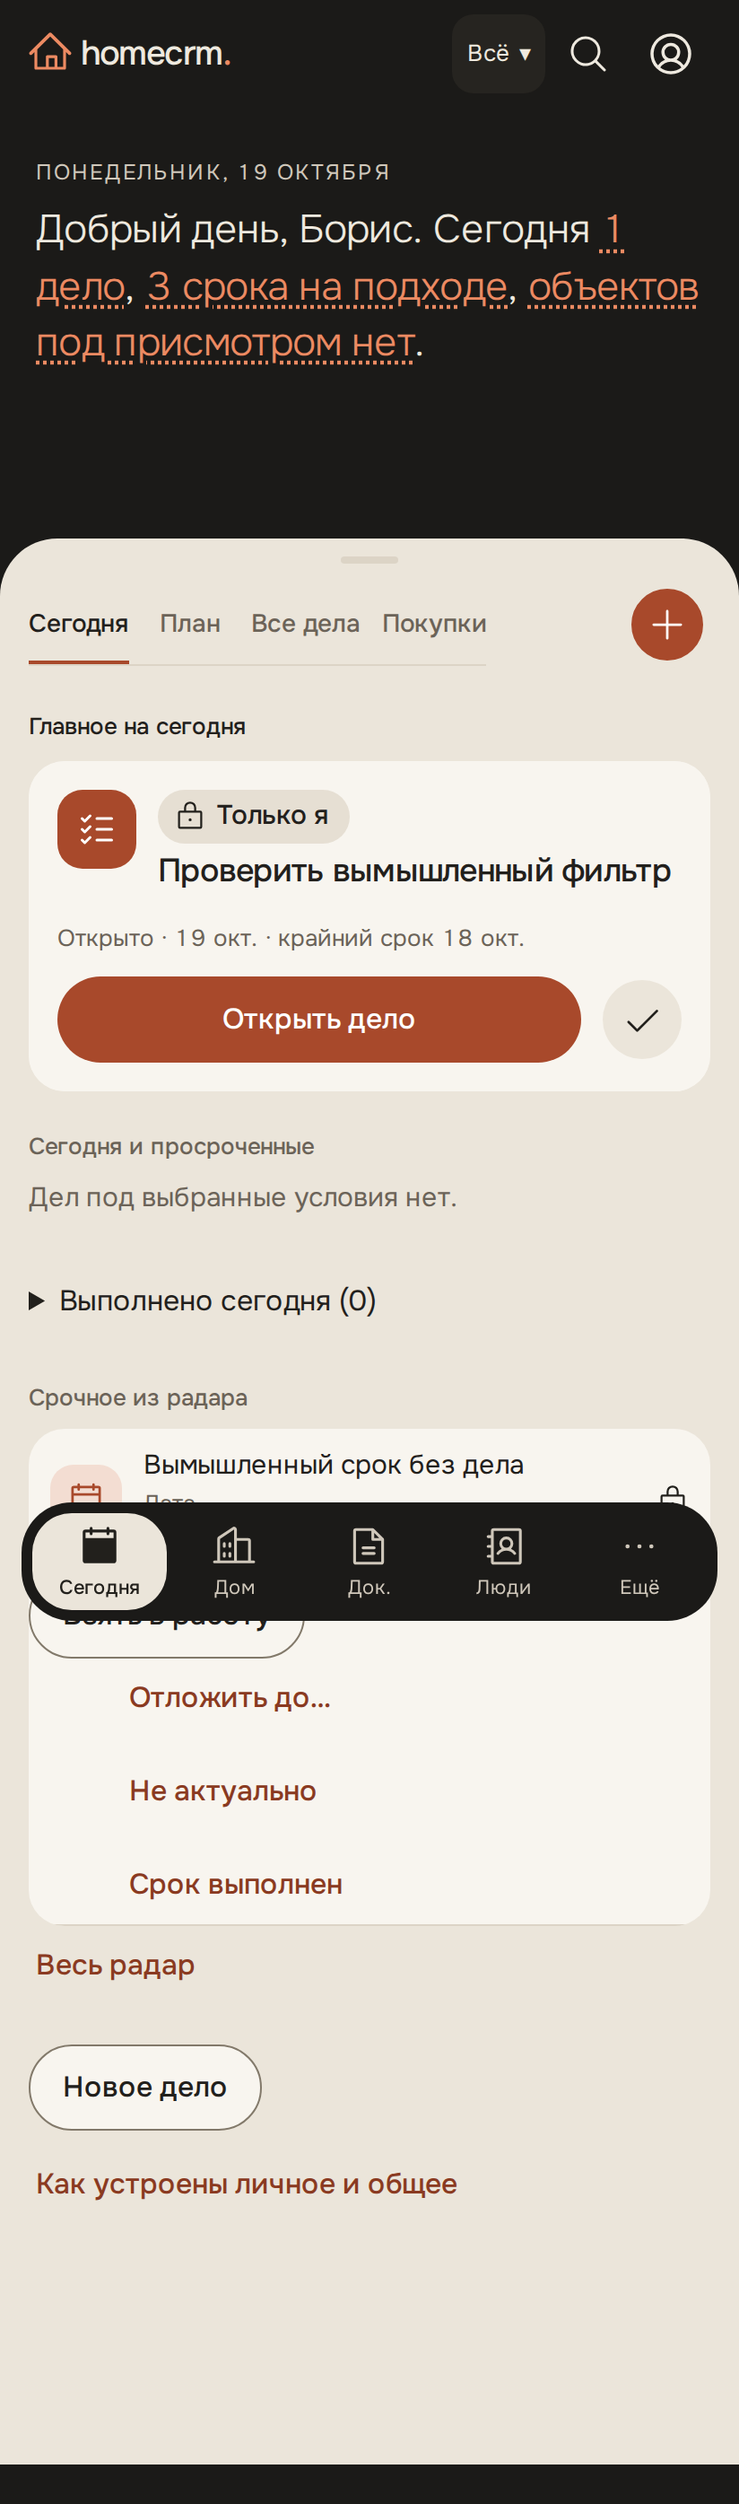
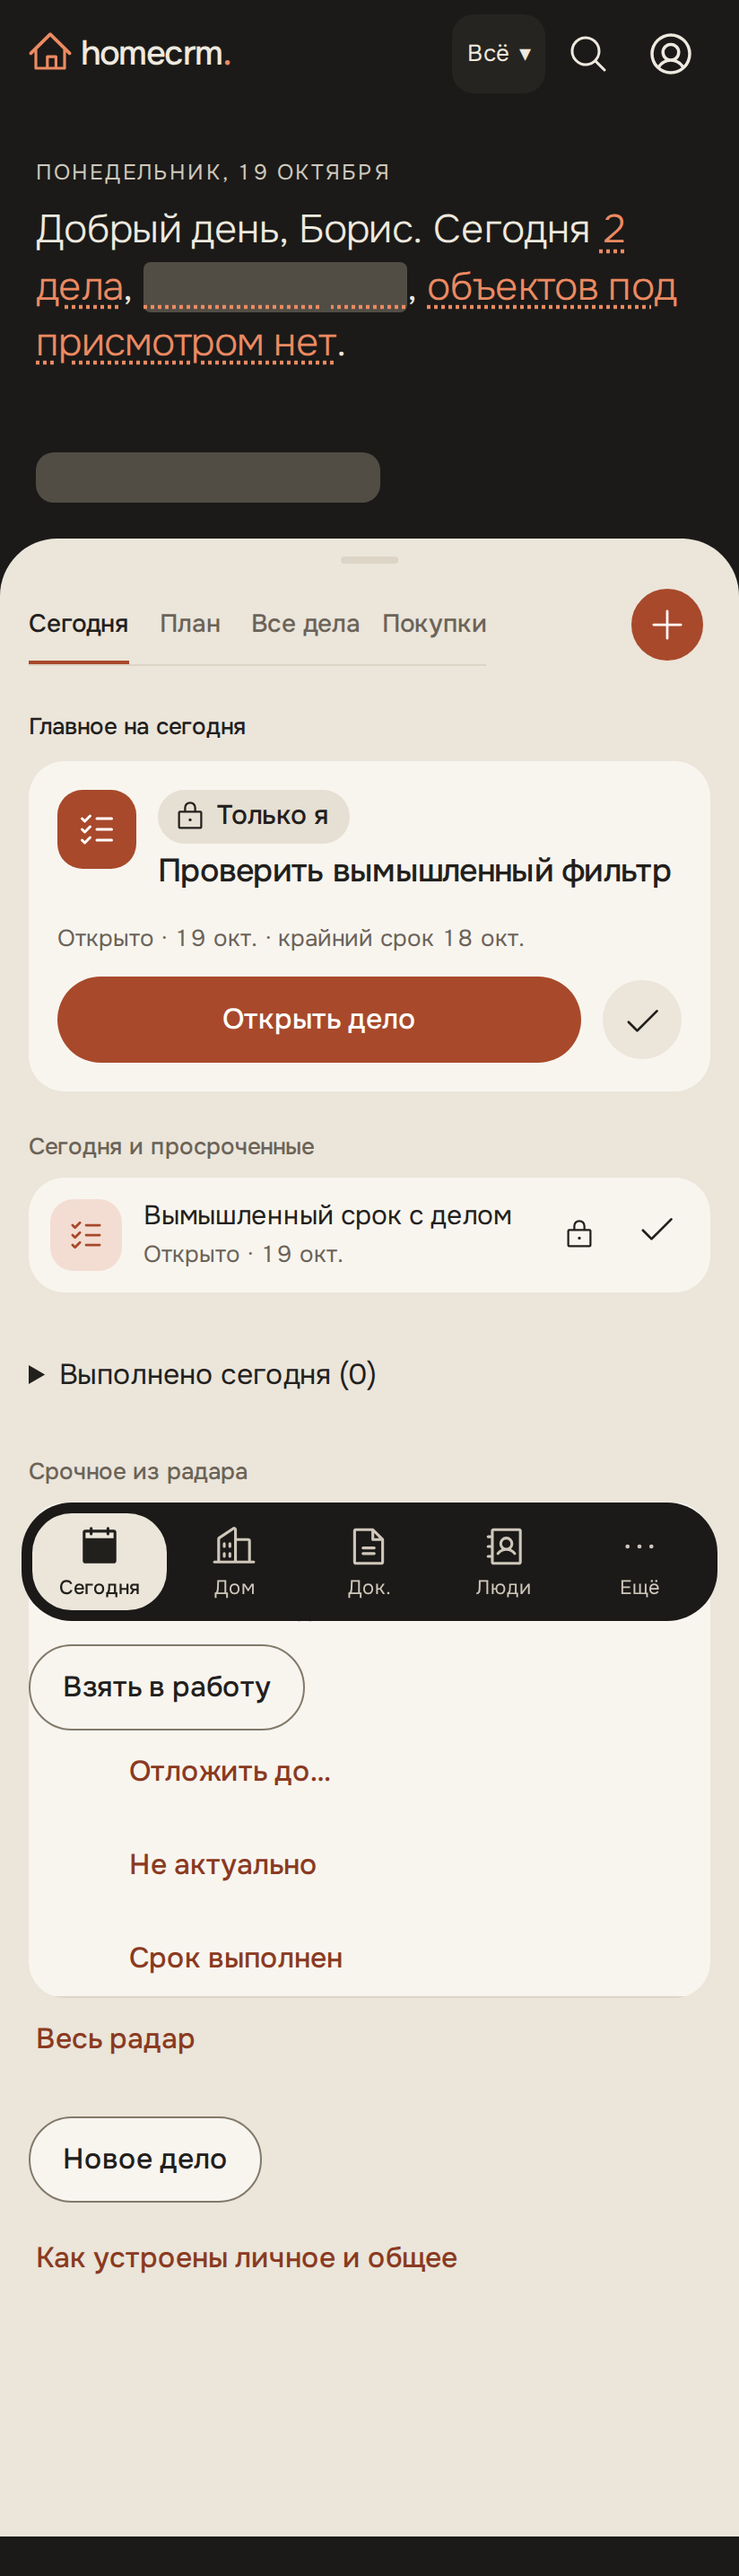
TASK-4: исключить из срочного сроки уже взятых в работу дел

diff --git a/apps/web/e2e/app/today-ux.e2e.ts b/apps/web/e2e/app/today-ux.e2e.ts
@@ -103,13 +103,28 @@ test('D20a 1,4,5,8: личное главное дело, устройства, 
       })
     ).status,
   ).toBe(201);
+  const linked = await seedNote(api, family, { title: 'Вымышленный срок с делом' });
+  expect(
+    (
+      await api.post(`notes/${linked.id}/deadlines`, {
+        rule: { kind: 'date', date: homeDate(0), warnings: [0] },
+      })
+    ).status,
+  ).toBe(201);
   await recalc(family);
+  const todayBefore = await api.get('tasks/today?scope=all');
+  const occurrence = (todayBefore.body as { radar: { id: string; title: string }[] }).radar.find(
+    (row) => row.title === 'Вымышленный срок с делом',
+  );
+  expect(occurrence).toBeDefined();
+  expect((await api.post('tasks/from-radar', { occurrenceId: occurrence?.id })).status).toBe(201);
   await signInAs(page, family, 'adult');
   await expect(
     page.getByRole('heading', { name: 'Главное на сегодня', exact: true }),
   ).toBeVisible();
   await expect(page.getByText('Проверить вымышленный фильтр', { exact: true })).toHaveCount(1);
   await expect(page.getByText('Вымышленный срок без дела', { exact: true })).toBeVisible();
+  await expect(page.getByText('Вымышленный срок с делом', { exact: true })).toHaveCount(1);
   await check(page, info, 'today');
   await page.getByRole('button', { name: 'Добавить', exact: true }).click();
   const menu = page.getByRole('dialog', { name: 'Добавить', exact: true });

diff --git a/apps/web/src/tasks/TasksScreen.tsx b/apps/web/src/tasks/TasksScreen.tsx
@@ -161,7 +161,10 @@ function TodayFeed({ house }: { house: string | null }) {
   });
   const urgent = filterRows(rows, { view: 'mine', scope, meId: me.id }).filter(
     (row) =>
-      !isOpenWindow(row) && !query.data?.tasks.some((task) => row.to === `/today/tasks/${task.id}`),
+      !isOpenWindow(row) &&
+      !query.data?.tasks.some(
+        (task) => row.to === `/today/tasks/${task.id}` || task.radarOccurrenceId === row.id,
+      ),
   );
   const houseQuery = house && house !== householdId ? `?householdId=${house}` : '';
   return (
